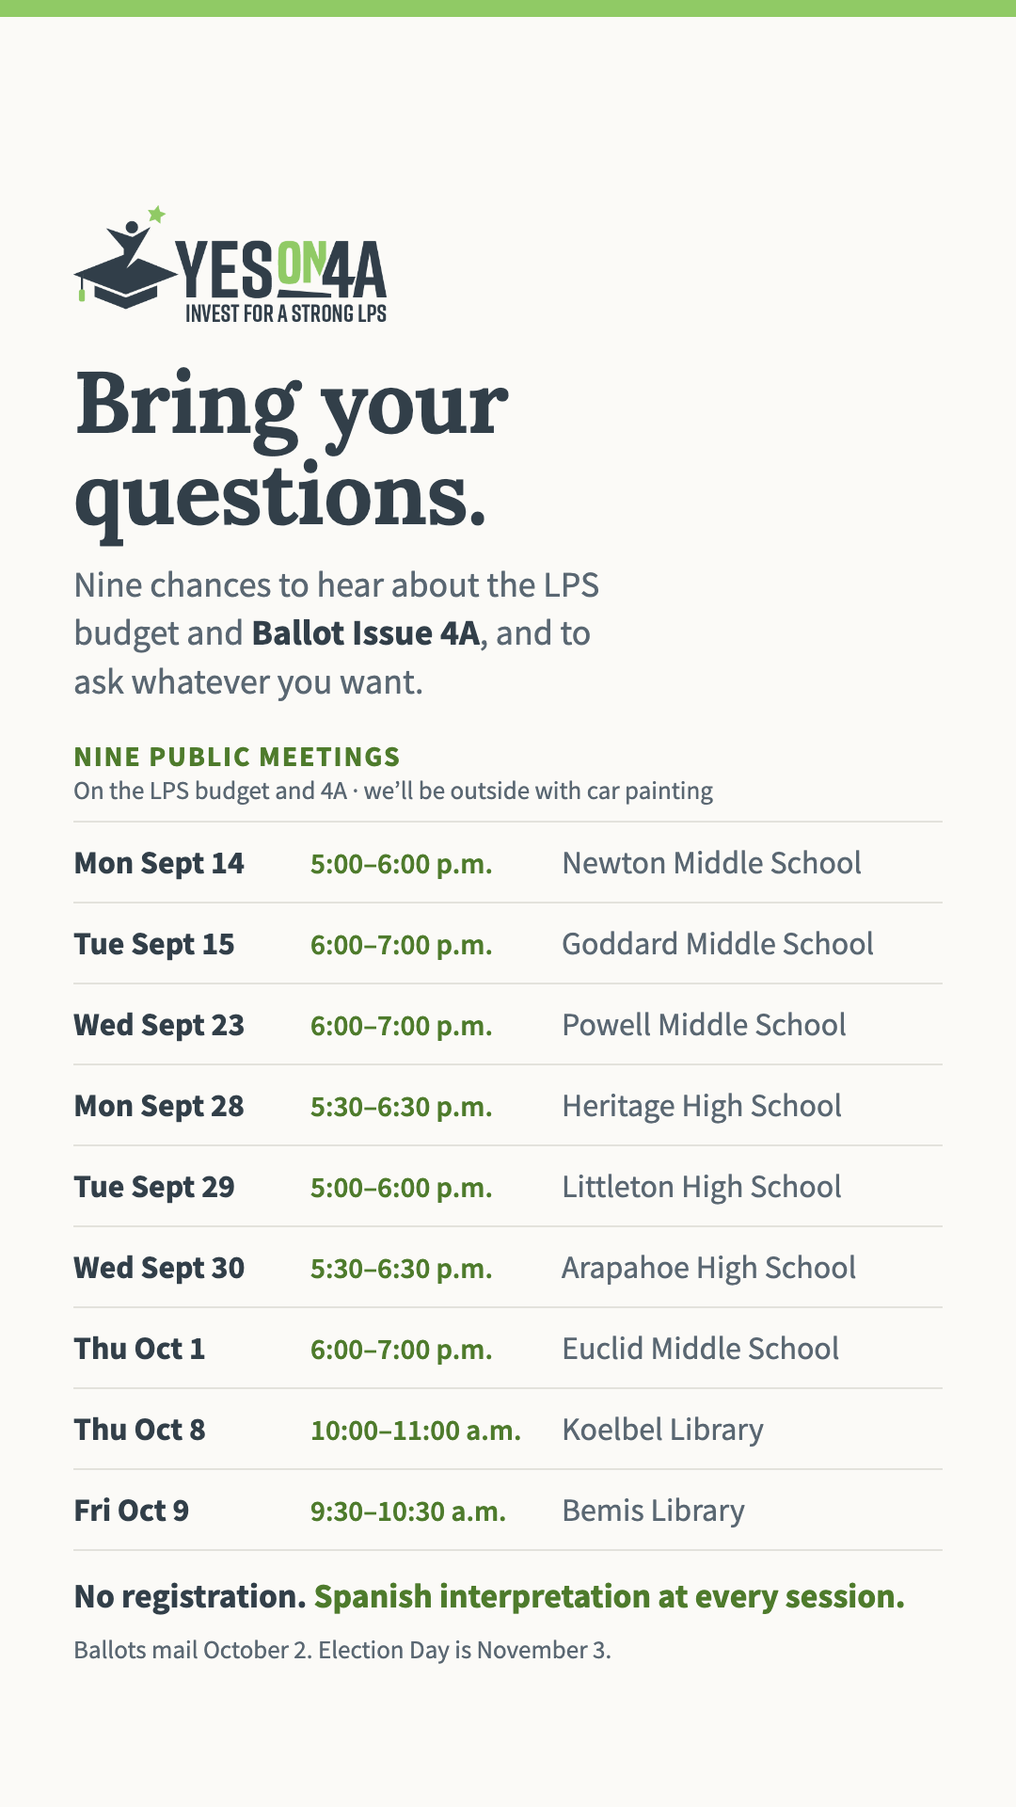
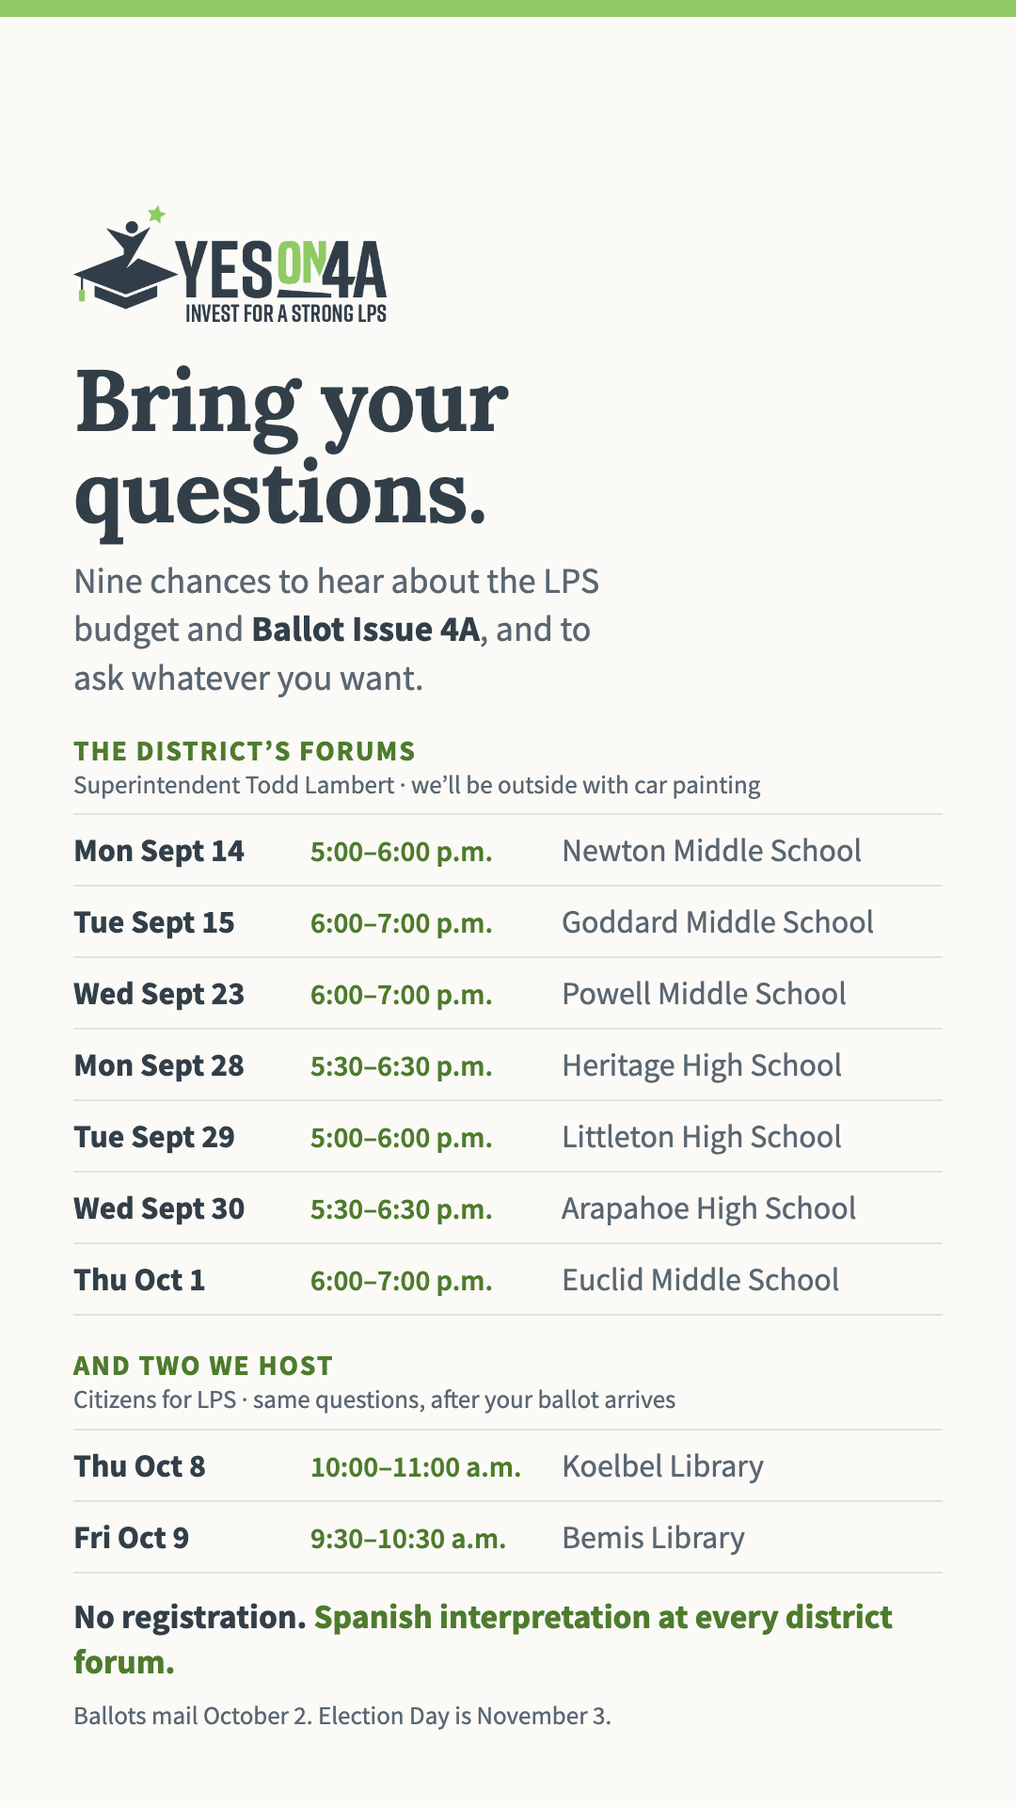
Restore the two tracks: the Oct 8-9 meetings are campaign-hosted
"The two new events will still be informational, and a chance for
community members to come and learn about 4A and ask questions. But
they will be hosted directly by the campaign rather than the community
forums which are hosted by the district."

Reverts 8cfb4d3. Koelbel and Bemis are back in CAMPAIGN.campaignMeetings
with their own site section, invite draft, and group on the card; the
district forum list returns to seven.

The language is sharper than the first attempt, because the organizer's
framing is more precise than mine was. These are not "the campaign's
events" as opposed to informational ones — they are the same offer as
the forums (come learn about 4A, ask questions) and the only thing that
differs is who hosts. Site: "Same offer as the forums above... The
difference is who runs the room." Card: "AND TWO WE HOST — Citizens for
LPS, same questions, after your ballot arrives."

The brief now records that this flipped twice in one day and why: all
nine sessions are informational and look alike from outside, so the
pull toward merging them is strong and wrong. The test is never what
happens in the room, it is who is hosting. Also says not to infer
hosting from a phrase like "the campaign is adding meetings" — that
inference is what started this.

Smoke back to 7 forums + the no-merge assertion inverted. Measured at
all four placements: no overflow, 9 rows in 2 groups, nothing wrapped.

Claude-Session: https://claude.ai/code/session_01Q36cWUtzP7EjmESsCWSHd3

diff --git a/js/data.js b/js/data.js
@@ -314,66 +314,6 @@ const CAMPAIGN = {
     // painting (campaign, 2026-09-09). Inside is the district
     // informing voters; outside is advocacy. Copy says both, so a
     // reader always knows which side of the door they're on.
-    campaignOutside: 'Volunteers will be outside every one of these painting car windows. The campaign runs none of the meetings themselves.',
-    sessions: [
-      { date: '2026-09-14', time: '5:00–6:00 p.m.', place: 'Newton Middle School' },
-      { date: '2026-09-15', time: '6:00–7:00 p.m.', place: 'Goddard Middle School' },
-      { date: '2026-09-23', time: '6:00–7:00 p.m.', place: 'Powell Middle School' },
-      { date: '2026-09-28', time: '5:30–6:30 p.m.', place: 'Heritage High School' },
-      { date: '2026-09-29', time: '5:00–6:00 p.m.', place: 'Littleton High School' },
-      { date: '2026-09-30', time: '5:30–6:30 p.m.', place: 'Arapahoe High School' },
-      { date: '2026-10-01', time: '6:00–7:00 p.m.', place: 'Euclid Middle School' },
-      // Campaign-confirmed 2026-09-09; same kind of event as the seven
-      // above (the committee runs none of them). Not yet on the
-      // district's Dollars and Sense page, which still lists seven.
-      { date: '2026-10-08', time: '10:00–11:00 a.m.', place: 'Koelbel Library' },
-      { date: '2026-10-09', time: '9:30–10:30 a.m.', place: 'Bemis Library' },
-    ],
-    lateAdditionNote: 'The October 8 and 9 sessions were confirmed by the campaign and are not yet on the district\u2019s page.',
-  },
-
-  /*
-   * Tax-impact model. Every value labeled an estimate until the
-   * district publishes official figures (it has said it will).
-   *   annual $ = home value x assessment rate x (mills / 1000)
-   */
-  taxCalc: {
-    // "2026 Residential School Assessment Rate - 7.05%" — Colorado
-    // Division of Property Taxation, fetched 2026-08-26.
-    residentialAssessmentRate: { value: 0.0705, verified: true,
-      sourceId: 'dptRate',
-      note: '2026 rate; the State Board of Equalization can adjust in future years' },
-    // Derived from the district's own official estimate ("approximately
-    // $25 annually for every $100,000 of home value" — Superintendent's
-    // letter, May 29, 2026): 25 / 7.05 ≈ 3.5 mills. The certified mill
-    // figure arrives with county ballot certification (~September).
-    estimatedMills: { value: 3.5, verified: false,
-      sourceId: 'lpsDeficitLetter',
-      note: 'Derived from the district’s $25-per-$100K estimate; certified ballot language will set the final figure' },
-    perHundredK: { value: 25, verified: true, sourceId: 'lpsDeficitLetter' },
-    // The district's own worked example ("a $600,000 home would equal
-    // less than $13 per month") — the calculator opens on it so a
-    // reader can check the district's arithmetic before their own.
-    districtExample: { homeValue: 600000, monthlyText: 'less than $13 a month', verified: true,
-      sourceId: 'lpsDollarsAndSense' },
-    defaultHomeValue: 600000,
-  },
-
-  /*
-   * The district's Dollars and Sense community forums — Superintendent
-   * Todd Lambert presenting the budget and the measure, then Q&A. These
-   * are district-track informational meetings (not campaign events):
-   * our tool's job is to help a supporter bring a neighbor. No
-   * registration; Spanish interpretation at every session.
-   * Dates are ISO local; times as the district prints them.
-   */
-  forums: {
-    sourceId: 'lpsDollarsAndSense',
-    host: 'Superintendent Todd Lambert',
-    // The committee is outside the room at each of these with car
-    // painting (campaign, 2026-09-09). Inside is the district
-    // informing voters; outside is advocacy. Copy says both, so a
-    // reader always knows which side of the door they're on.
     campaignOutside: 'Volunteers will be outside each forum painting car windows. The meeting inside is the district\u2019s.',
     sessions: [
       { date: '2026-09-14', time: '5:00–6:00 p.m.', place: 'Newton Middle School' },
@@ -383,13 +323,31 @@ const CAMPAIGN = {
       { date: '2026-09-29', time: '5:00–6:00 p.m.', place: 'Littleton High School' },
       { date: '2026-09-30', time: '5:30–6:30 p.m.', place: 'Arapahoe High School' },
       { date: '2026-10-01', time: '6:00–7:00 p.m.', place: 'Euclid Middle School' },
-      // Campaign-confirmed 2026-09-09; same kind of event as the seven
-      // above (the committee runs none of them). Not yet on the
-      // district's Dollars and Sense page, which still lists seven.
+    ],
+  },
+
+  /*
+   * The COMMITTEE's own information meetings — a separate track from
+   * `forums` above and never merged with them. Same offer as the
+   * district forums (informational, come learn and ask questions);
+   * what differs is who runs the room. Listing a campaign event as a
+   * district forum misattributes advocacy to LPS (CRS 1-45-117) and
+   * the consequence lands on the district. Two lists, two labels.
+   * Both fall after ballots mail Oct 2 — attendees have a ballot.
+   * Confirmed with the campaign organizer 2026-09-09; do NOT re-merge
+   * these on the basis that all nine sessions look alike.
+   */
+  campaignMeetings: {
+    host: 'Citizens for LPS',
+    // Campaign-reported 2026-09-09. There is NO public listing yet, so
+    // this carries a plain-language note instead of a sourceId — citing
+    // the Aug 19 news post would imply a source that doesn't cover it.
+    // Add sourceId once these appear on citizensforlps.org/upcoming_events.
+    sourceNote: 'Confirmed with the campaign organizer on September 9, 2026. Not yet listed publicly \u2014 check',
+    sessions: [
       { date: '2026-10-08', time: '10:00–11:00 a.m.', place: 'Koelbel Library' },
       { date: '2026-10-09', time: '9:30–10:30 a.m.', place: 'Bemis Library' },
     ],
-    lateAdditionNote: 'The October 8 and 9 sessions were confirmed by the campaign and are not yet on the district\u2019s page.',
   },
 
   /*

diff --git a/branding/social/forums-card.html b/branding/social/forums-card.html
@@ -63,16 +63,16 @@ li{display:flex;align-items:baseline;gap:var(--colGap);
 body.portrait{width:1080px;height:1350px;
   --bar:16px; --padX:72px; --padY:52px; --logo:104px;
   --h1:76px; --sub:33px; --list:29px; --listSm:27px; --note:29px; --fine:24px;
-  --group:25px; --groupSub:23px; --groupGap:14px; --groupTop:0px;
-  --gap1:28px; --gap2:16px; --gap3:32px; --row:17px;
+  --group:25px; --groupSub:23px; --groupGap:12px; --groupTop:30px;
+  --gap1:26px; --gap2:16px; --gap3:30px; --row:13px;
   --wWhen:200px; --wTime:210px; --colGap:18px}
 
 /* ---- 1080x1080 — square feed / profile grid ---- */
 body.square{width:1080px;height:1080px;
   --bar:14px; --padX:66px; --padY:44px; --logo:88px;
   --h1:58px; --sub:27px; --list:25px; --listSm:23px; --note:25px; --fine:21px;
-  --group:22px; --groupSub:20px; --groupGap:10px; --groupTop:0px;
-  --gap1:20px; --gap2:12px; --gap3:22px; --row:11px;
+  --group:22px; --groupSub:20px; --groupGap:9px; --groupTop:22px;
+  --gap1:18px; --gap2:12px; --gap3:20px; --row:8px;
   --wWhen:186px; --wTime:196px; --colGap:16px}
 
 /* ---- 1080x1920 — Stories / Reels. Platform UI eats the top and bottom,
@@ -80,8 +80,8 @@ body.square{width:1080px;height:1080px;
 body.story{width:1080px;height:1920px;
   --bar:18px; --padX:78px; --padY:200px; --logo:124px;
   --h1:92px; --sub:38px; --list:34px; --listSm:31px; --note:36px; --fine:27px;
-  --group:30px; --groupSub:27px; --groupGap:16px; --groupTop:0px;
-  --gap1:36px; --gap2:24px; --gap3:36px; --row:21px;
+  --group:30px; --groupSub:27px; --groupGap:14px; --groupTop:34px;
+  --gap1:34px; --gap2:22px; --gap3:34px; --row:16px;
   --wWhen:230px; --wTime:245px; --colGap:22px}
 
 /* ---- 1200x630 — link previews and shared-link cards. Too short to stack,
@@ -89,8 +89,8 @@ body.story{width:1080px;height:1920px;
 body.wide{width:1200px;height:630px;
   --bar:12px; --padX:56px; --padY:38px; --logo:74px;
   --h1:47px; --sub:24px; --list:23px; --listSm:21px; --note:22px; --fine:19px;
-  --group:20px; --groupSub:18px; --groupGap:7px; --groupTop:0px;
-  --gap1:14px; --gap2:10px; --gap3:0px; --row:8px;
+  --group:20px; --groupSub:18px; --groupGap:6px; --groupTop:16px;
+  --gap1:14px; --gap2:10px; --gap3:0px; --row:6px;
   --wWhen:160px; --wTime:0px; --colGap:16px}
 body.wide .sheet{display:grid;column-gap:46px;
   grid-template-columns:44% 1fr;
@@ -120,7 +120,7 @@ body.wide .sub{max-width:24ch}
   <p class="sub">Nine chances to hear about the LPS budget and <b>Ballot Issue&nbsp;4A</b>, and to ask whatever you want.</p>
 
   <div class="sched">
-    <p class="group">Nine public meetings<span>On the LPS budget and 4A &middot; we&rsquo;ll be outside with car painting</span></p>
+    <p class="group">The district&rsquo;s forums<span>Superintendent Todd Lambert &middot; we&rsquo;ll be outside with car painting</span></p>
     <ul>
       <li><span class="when">Mon Sept 14</span><span class="time">5:00–6:00 p.m.</span><span class="place">Newton Middle School</span></li>
       <li><span class="when">Tue Sept 15</span><span class="time">6:00–7:00 p.m.</span><span class="place">Goddard Middle School</span></li>
@@ -129,13 +129,17 @@ body.wide .sub{max-width:24ch}
       <li><span class="when">Tue Sept 29</span><span class="time">5:00–6:00 p.m.</span><span class="place">Littleton High School</span></li>
       <li><span class="when">Wed Sept 30</span><span class="time">5:30–6:30 p.m.</span><span class="place">Arapahoe High School</span></li>
       <li><span class="when">Thu Oct 1</span><span class="time">6:00–7:00 p.m.</span><span class="place">Euclid Middle School</span></li>
+    </ul>
+
+    <p class="group ours">And two we host<span>Citizens for LPS &middot; same questions, after your ballot arrives</span></p>
+    <ul>
       <li><span class="when">Thu Oct 8</span><span class="time">10:00–11:00 a.m.</span><span class="place">Koelbel Library</span></li>
       <li><span class="when">Fri Oct 9</span><span class="time">9:30–10:30 a.m.</span><span class="place">Bemis Library</span></li>
     </ul>
   </div>
 
   <div class="foot">
-    <p class="note">No registration. <span>Spanish interpretation at every session.</span></p>
+    <p class="note">No registration. <span>Spanish interpretation at every district forum.</span></p>
     <p class="fine">Ballots mail October 2. Election Day is November 3.</p>
   </div>
 </div>

diff --git a/js/app.js b/js/app.js
@@ -81,6 +81,12 @@
   }
 
   document.addEventListener('click', (e) => {
+    const cmBtn = e.target.closest('[data-cmeeting]');
+    if (cmBtn) {
+      e.preventDefault();
+      inviteToCampaignMeeting(Number(cmBtn.dataset.cmeeting));
+      return;
+    }
     const forumBtn = e.target.closest('[data-forum]');
     if (forumBtn) {
       inviteToForum(Number(forumBtn.dataset.forum));
@@ -141,6 +147,34 @@
       .filter((s) => s.when >= today);
   }
 
+  function upcomingCampaignMeetings() {
+    const today = todayStart();
+    return CAMPAIGN.campaignMeetings.sessions
+      .map((s, i) => ({ ...s, i, when: localDate(s.date) }))
+      .filter((s) => s.when >= today);
+  }
+
+  function renderCampaignMeetings() {
+    const list = $('campaign-meeting-list');
+    if (!list) return;
+    const cm = CAMPAIGN.campaignMeetings;
+    const upcoming = upcomingCampaignMeetings();
+    if (!upcoming.length) { list.innerHTML = ''; return; }
+    list.innerHTML = `
+      <ul class="forum-list">${upcoming.map((s) => `
+        <li class="forum-row">
+          <div class="forum-when">
+            <span class="forum-day">${escHtml(fmtDay(s.when))}</span>
+            <span class="forum-time">${escHtml(s.time)}</span>
+          </div>
+          <div class="forum-place">${escHtml(s.place)}</div>
+          <button class="link-btn campaign-meeting-invite" data-cmeeting="${s.i}">Invite someone &rarr;</button>
+        </li>`).join('')}
+      </ul>
+      <p class="fine">Hosted by ${escHtml(cm.host)}. ${escHtml(cm.sourceNote)}
+        <a href="${CAMPAIGN.officialSite}" target="_blank" rel="noopener">citizensforlps.org</a> for updates.</p>`;
+  }
+
   function renderForums() {
     const list = $('forum-list');
     if (!list) return;
@@ -162,7 +196,6 @@
         </li>`).join('')}
       </ul>
       <p class="fine">No sign-up needed. Spanish interpretation at every session. ${src}</p>
-      <p class="fine">${escHtml(CAMPAIGN.forums.lateAdditionNote)}</p>
       <p class="fine">${escHtml(CAMPAIGN.forums.campaignOutside)} Come early if you want your car windows painted.</p>`;
   }
 
@@ -173,6 +206,20 @@
    */
   function forumInviteText(s) {
     return `The superintendent is taking questions about the LPS budget and 4A, the mill levy override, at ${s.place} on ${fmtDay(s.when)}, ${s.time.replace(/\.$/, '')}. No sign-up, and there is Spanish interpretation. Want to go with me? I'd like the company. And I'm voting yes.`;
+  }
+
+  function campaignMeetingInviteText(s) {
+    return `Citizens for LPS is holding an information meeting about 4A, the LPS mill levy override, at ${s.place} on ${fmtDay(s.when)}, ${s.time.replace(/\.$/, '')}. Ballots will already be in your mailbox. Bring your questions and I'll see you there. I'm voting yes.`;
+  }
+
+  function inviteToCampaignMeeting(i) {
+    const s = CAMPAIGN.campaignMeetings.sessions[i];
+    if (!s) return;
+    setDraft(campaignMeetingInviteText({ ...s, when: localDate(s.date) }));
+    cardTextTouched = false;
+    if ($('view-studio').hidden) showView('studio');
+    gotoStep(2);
+    $('studio-draft').focus();
   }
 
   function inviteToForum(i) {
@@ -1421,6 +1468,7 @@
   function init() {
     renderBallotSummary();
     renderForums();
+    renderCampaignMeetings();
     renderVoices();
     initPromptClicks();
     initDraft();

diff --git a/index.html b/index.html
@@ -106,13 +106,24 @@
 
         <h2 class="section-title">Ask the superintendent yourself. Bring someone.</h2>
         <p class="body">
-          There are nine public meetings this fall on the budget and 4A,
-          and then the room asks questions. The campaign runs none of
-          them, so there is no campaigning inside. That is exactly why
-          a neighbor who hasn't decided will come if you ask. Our
-          volunteers will be outside with car painting. So ask.
+          The district is holding seven public forums this fall.
+          Superintendent Todd Lambert walks through the budget and 4A,
+          and then the room asks questions. These are the
+          district's meetings, so there is no campaigning in them. That
+          is also why a neighbor who hasn't decided will come if you
+          ask. So ask.
         </p>
         <div id="forum-list"></div>
+
+        <h2 class="section-title">And two that we host</h2>
+        <p class="body">
+          Citizens for LPS is holding two more information meetings in
+          October, after ballots land. Same offer as the forums above:
+          come learn what 4A does and ask whatever you want. The
+          difference is who runs the room. These are ours, so bring the
+          questions you'd want a campaign to answer.
+        </p>
+        <div id="campaign-meeting-list"></div>
 
         <h2 class="section-title">What 4A is</h2>
         <div id="ballot-summary"></div>

diff --git a/docs/campaign/CAMPAIGN-BRIEF.md b/docs/campaign/CAMPAIGN-BRIEF.md
@@ -185,31 +185,36 @@ once) mean the campaign treats that floor as earned, not guaranteed.
   | Wed Sept 30 | 5:30–6:30 p.m. | Arapahoe High School |
   | Thu Oct 1 | 6:00–7:00 p.m. | Euclid Middle School |
 
-- **Two more sessions, same kind of event** (campaign, confirmed
-  2026-09-09). **None of these meetings are run by the campaign** —
-  all nine are public information meetings on the LPS budget and 4A,
-  and the committee's role at every one of them is the same: outside
-  the room, with car painting.
+- **Campaign information meetings** — hosted by **Citizens for LPS**,
+  not the district (confirmed with the campaign organizer,
+  2026-09-09). In content they are the same offer as the district
+  forums: informational, a chance for community members to come learn
+  about 4A and ask questions. What differs is **who runs the room**,
+  and that is the whole distinction — the committee hosts these, so
+  the district-track framing above does not apply to them. Both land
+  after ballots mail on October 2, so attendees will have a ballot in
+  hand.
 
   | Date | Time | Place |
   |---|---|---|
   | Thu Oct 8 | 10:00–11:00 a.m. | Koelbel Library |
   | Fri Oct 9 | 9:30–10:30 a.m. | Bemis Library |
 
-  These two are not yet on the district's Dollars and Sense page,
-  which still lists the original seven; they are campaign-confirmed.
-  Both fall after ballots mail on October 2, so attendees will have a
-  ballot in hand. Koelbel is in Centennial and Bemis in Littleton, so
-  together they reach both halves of the electorate.
+  ⚠ Never merge this table into the district forum table. A campaign
+  meeting listed as a district forum misattributes advocacy to LPS,
+  which is the exact failure mode CRS 1-45-117 punishes — and it lands
+  on the district, not on us. Two tables, two labels, always. (Koelbel
+  is in Centennial and Bemis in Littleton, so together they cover both
+  halves of the electorate.)
 
-  **Correction (2026-09-09):** an earlier version of this brief split
-  these two off as committee-hosted events and warned against merging
-  them. That was wrong — it came from reading "the campaign is adding
-  a few additional information meetings" as "the campaign is hosting
-  them." Adding a session to the schedule is not hosting it. All nine
-  are one list. Ask who *runs* the room before inventing a second
-  track; the two-track rule is about the district/committee boundary,
-  and it does not apply here because the committee runs none of them.
+  **This one flipped twice on 2026-09-09 before the organizer settled
+  it.** Because all nine sessions are informational and feel alike from
+  the outside, it is easy to conclude they are one list. They are not.
+  The test is never what happens in the room — it is **who is hosting**.
+  Seven are the district's, two are ours. If a future update seems to
+  show them merging, confirm with the organizer before changing this,
+  and do not infer hosting from a sentence like "the campaign is adding
+  meetings."
 
 ## Key dates (researched Aug 2026 — see docs/research/colorado-compliance.md §7 for the full table with statutes)
 
@@ -218,7 +223,7 @@ once) mean the campaign treats that floor as earned, not guaranteed.
 | 2026-08-13 | Board places MLO on ballot | ✅ done |
 | 2026-09-01 | District community email announces the measure, the tax example, and the seven forums | ✅ done |
 | 2026-09-14 → 10-01 | Dollars and Sense Community Forums (seven; district-hosted; campaign outside with car painting) | scheduled |
-| 2026-10-08, 10-09 | Two more public information meetings — Koelbel Library, Bemis Library (same track as the seven above) | scheduled |
+| 2026-10-08, 10-09 | Campaign information meetings — Koelbel Library, Bemis Library (committee-hosted) | scheduled |
 | ~2026-09-04 | Ballot content certified to county (60 days) — **the measure is Ballot Issue 4A** | ✅ done (campaign-reported 2026-09-08; county link pending) |
 | **2026-09-18 (likely noon)** | **TABOR notice pro/con comments due to LPS DEO — hard, unrecoverable deadline; the FOR statement reaches every voter household free** | ⚠ VERIFY exact date/time NOW |
 | ~2026-10-02 | TABOR notice mailed to voters (30 days) | ⚠ VERIFY |

diff --git a/PARITY.md b/PARITY.md
@@ -59,7 +59,7 @@ everything else.
 | Feature | Web | Notes |
 |---|---|---|
 | Start — what this is + sourced ballot summary | ✅ | `?` |
-| Nine public meetings on the budget + 4A | ✅ | One list in `CAMPAIGN.forums`: 7 from the district's page plus Oct 8 Koelbel and Oct 9 Bemis, campaign-confirmed 2026-09-09. The campaign runs none of them and is outside each with car painting |
+| District forums + campaign meetings, listed separately | ✅ | Two tracks never merged. `CAMPAIGN.forums` = 7 district-hosted (committee outside with car painting); `CAMPAIGN.campaignMeetings` = Oct 8 Koelbel + Oct 9 Bemis, committee-hosted. Both are informational — the split is about who runs the room, confirmed with the organizer 2026-09-09. Each gets its own invite draft |
 | Official Yes on 4A brand — header lockup (light/dark), favicon set, app icons, OG card | ✅ | Generated from `branding/yes-on-4a/` by `tools/render_brand_assets.py`; site had NO icon of any kind before 2026-09-09. Lockup marks the site only — share cards keep the star motif (Decision 058 amendment) |
 | Share Studio — four-step guided wizard (who you are → your words → a picture → send it) | ✅ | `?view=studio&step=N`; voice prompts seed the draft; per-network guided panels with micro-steps; Nextdoor ShareKit, SMS, WhatsApp, LinkedIn compose, Threads, Bluesky prefill; FB/IG/Messenger copy-then-open (prefill banned by Meta policy); native share sheet on mobile; sent-state tally |
 | Send paths are real links + same-gesture copy + visible fallback (Decision 061) | ✅ | Anchors not `window.open`; synchronous clipboard copy; "Didn't open?" line with plain link; "Copy my words" on every panel; verified in Chrome with a real click into the real Facebook composer (2026-09-02) |
